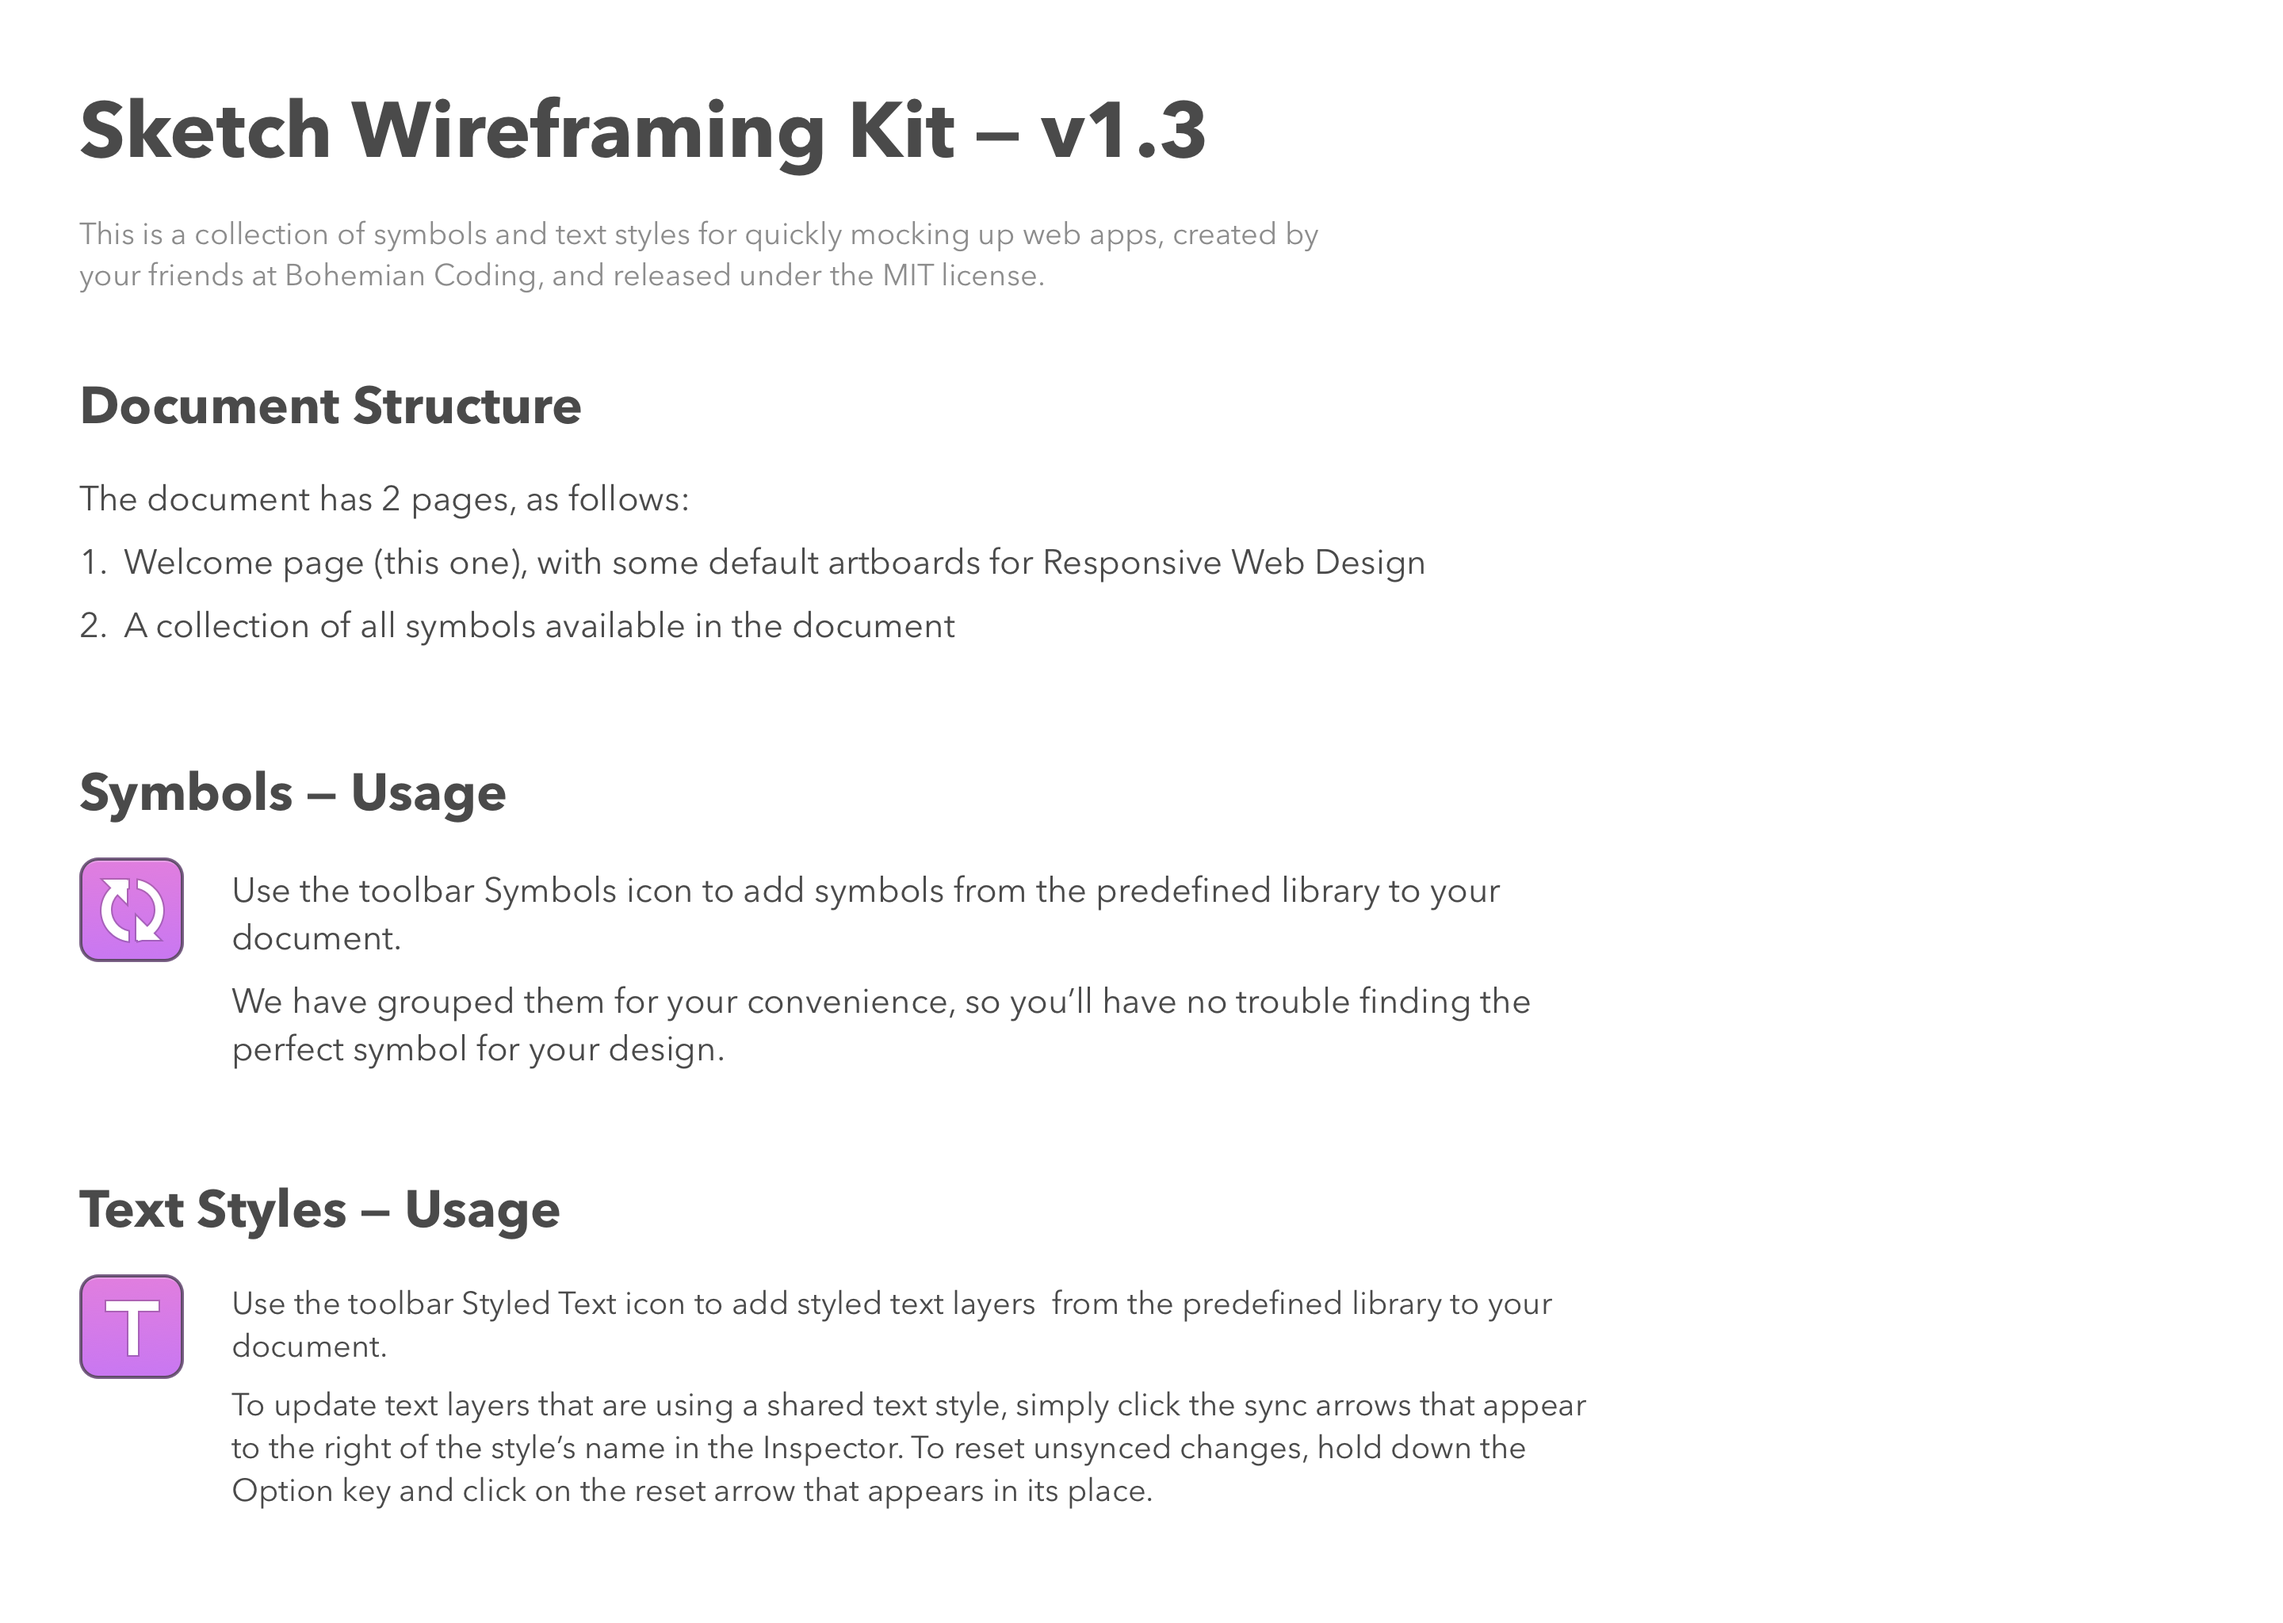
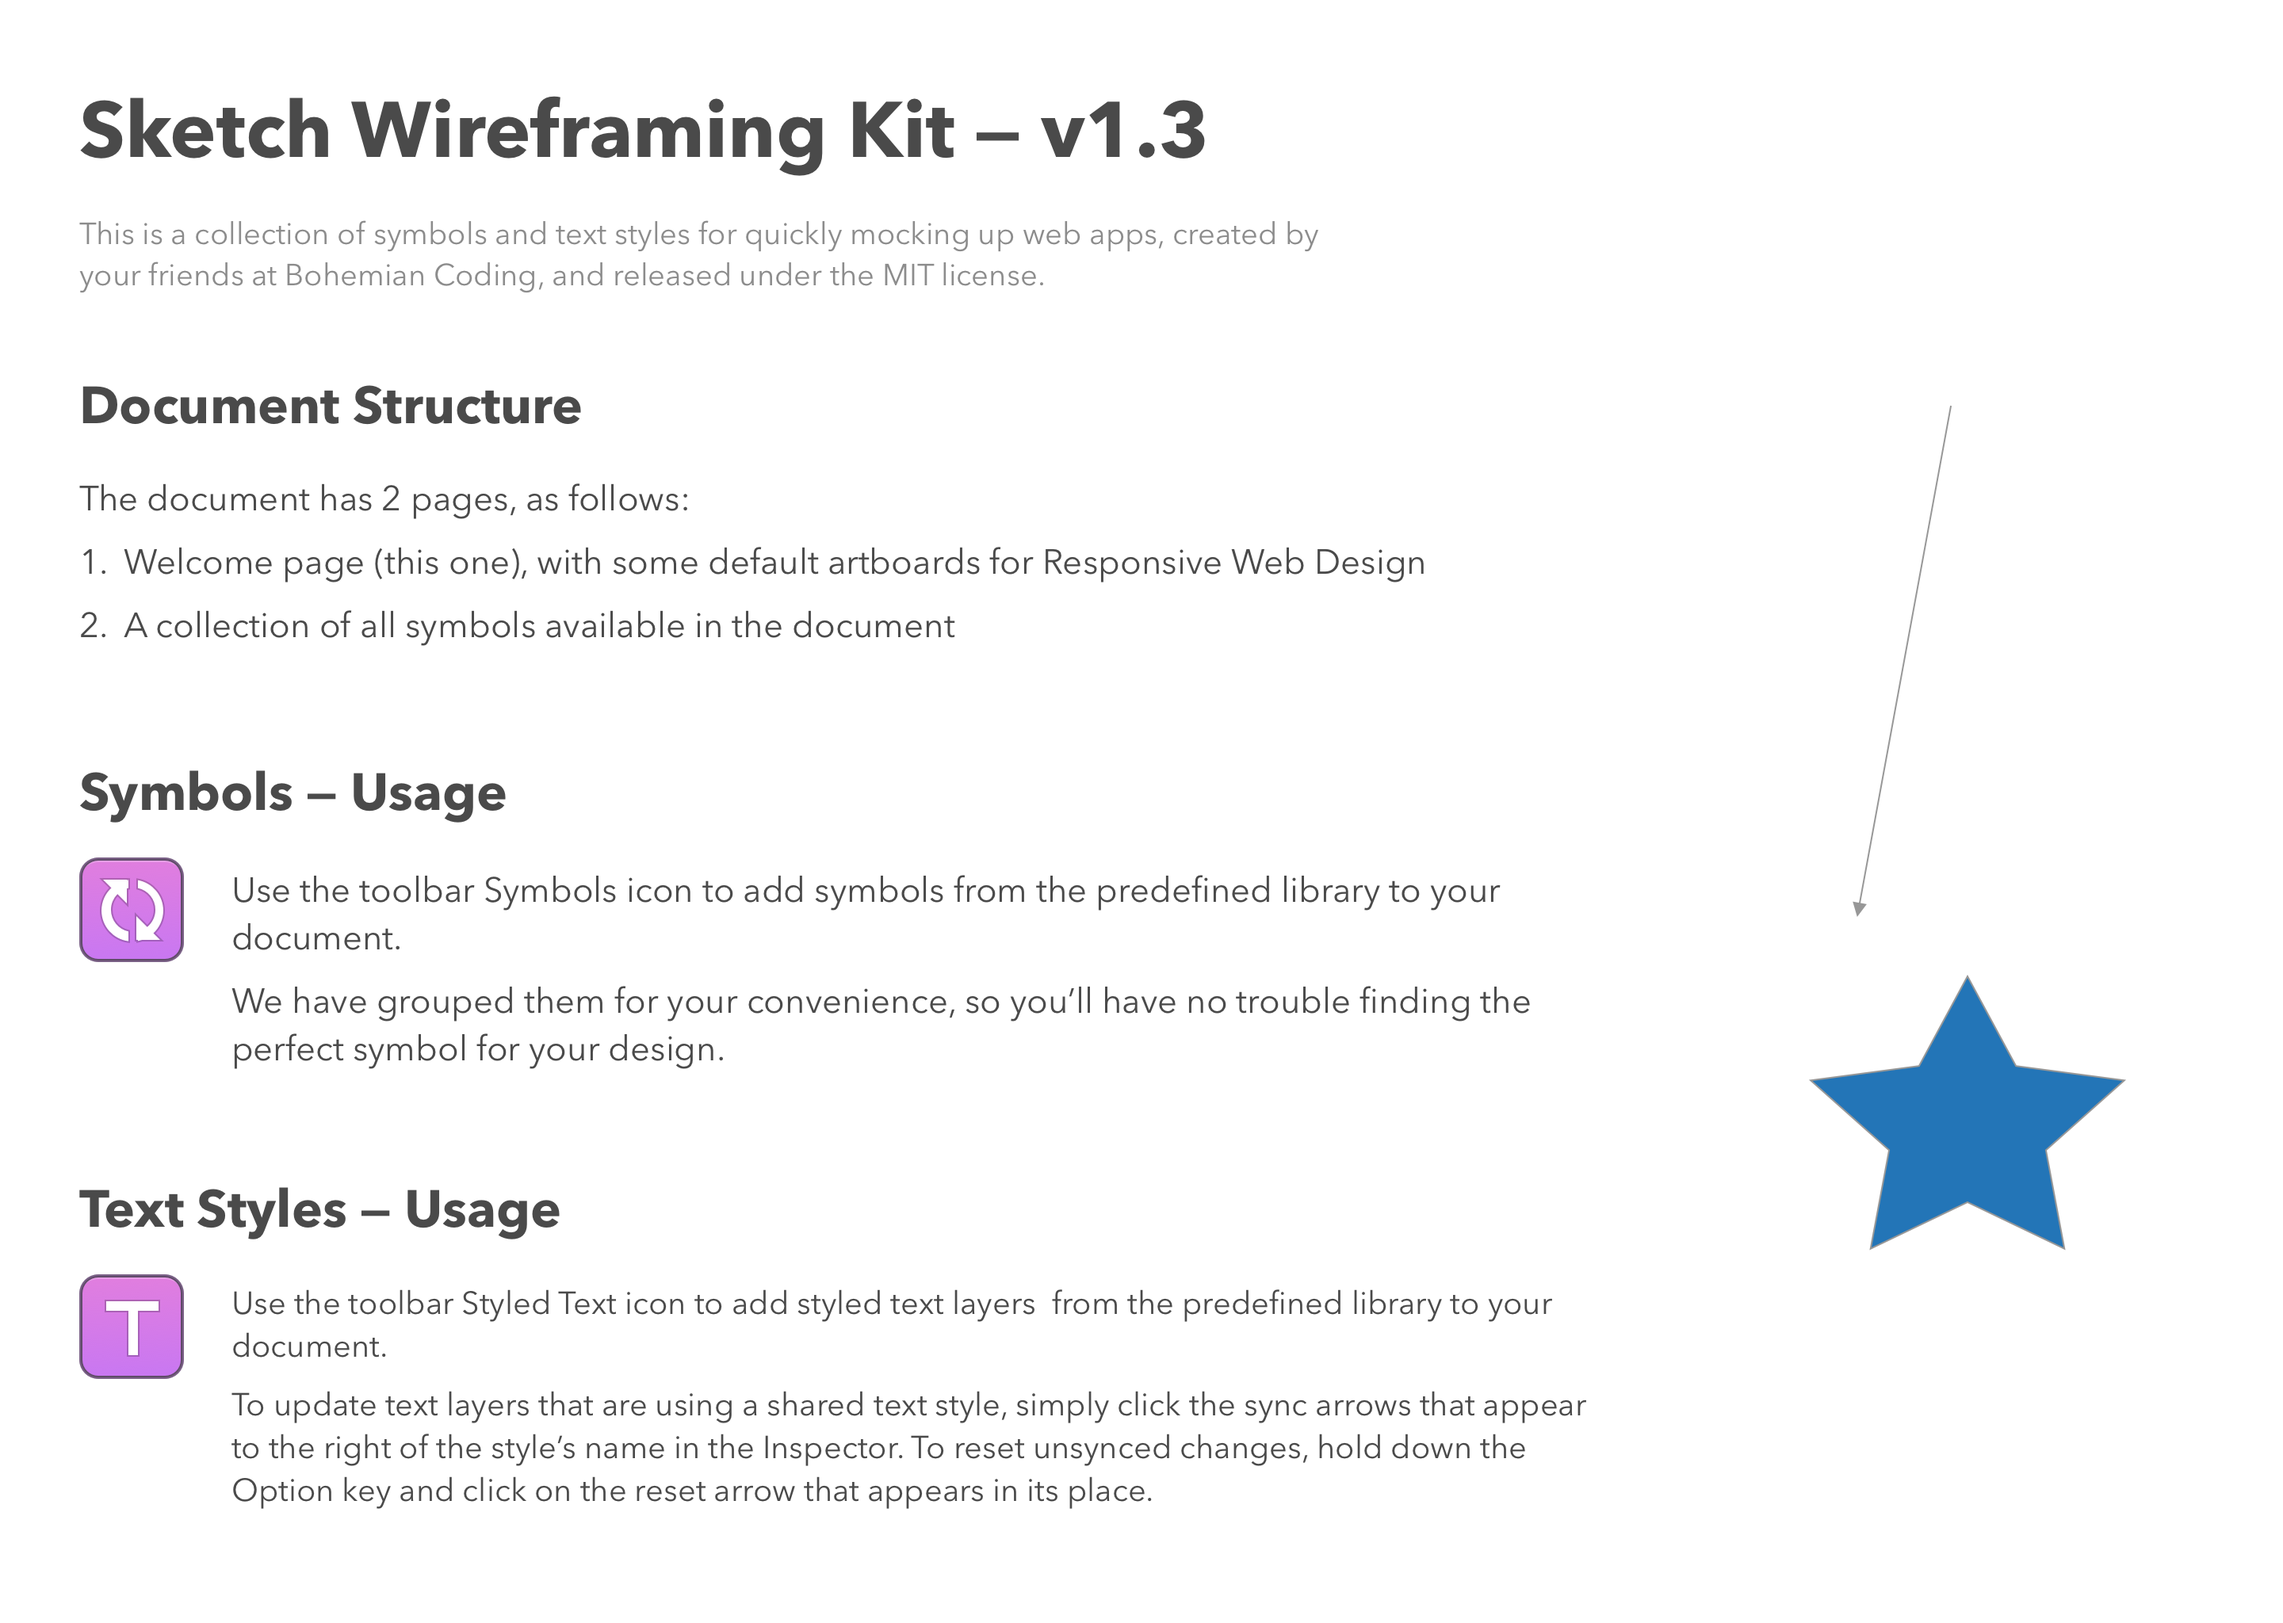
Added shapes

Changed region(s): [[0.7812, 0.5938, 0.9375, 0.7812]]

diff --git a/index.html b/index.html
@@ -1559,7 +1559,7 @@ var I18N = {},
     init.prototype = SMApp.fn;
     window.SMApp = SMApp;
 })(window);
-$(function(){ SMApp({"scale":"1","unit":"px","colorFormat":"color-hex","artboards":[{"layers":[{"objectID":"FC611829-9C70-4EB2-9DC3-97AA8566C644","type":"slice","name":"Instructions — You can remove this","rect":{"x":50,"y":50,"width":960,"height":904},"exportable":[{"name":"Instructions — You can remove this","format":"png","path":"Instructions — You can remove this.png"},{"name":"Instructions — You can remove this","format":"png","path":"Instructions — You can remove this@2x.png"}]}],"notes":[],"pageName":"Welcome","pageObjectID":"68CDDB49-B3DF-45AD-BC24-925DD374EFBF","name":"Desktop HD","slug":"welcome-desktop-hd","objectID":"AC13CA81-ABEE-4545-B5D1-9AE375C39D72","width":1440,"height":1024,"imagePath":"preview/welcome-desktop-hd.png"}],"slices":[{"name":"Instructions — You can remove this","objectID":"FC611829-9C70-4EB2-9DC3-97AA8566C644","rect":{"x":50,"y":50,"width":960,"height":904},"exportable":[{"name":"Instructions — You can remove this","format":"png","path":"Instructions — You can remove this.png"},{"name":"Instructions — You can remove this","format":"png","path":"Instructions — You can remove this@2x.png"}]}],"colors":[]}) });
+$(function(){ SMApp({"scale":"1","unit":"px","colorFormat":"color-hex","artboards":[{"layers":[{"objectID":"FC611829-9C70-4EB2-9DC3-97AA8566C644","type":"slice","name":"Instructions — You can remove this","rect":{"x":50,"y":50,"width":960,"height":904},"exportable":[{"name":"Instructions — You can remove this","format":"png","path":"Instructions — You can remove this.png"},{"name":"Instructions — You can remove this","format":"png","path":"Instructions — You can remove this@2x.png"}]},{"objectID":"EA017C00-D987-4857-8797-89B8428F6278","type":"shape","name":"Line","rect":{"x":1171,"y":256,"width":60,"height":322},"rotation":0,"radius":0,"borders":[{"fillType":"color","position":"center","thickness":1,"color":{"r":151,"g":151,"b":151,"a":1,"color-hex":"#979797 100%","argb-hex":"#FF979797","css-rgba":"rgba(151,151,151,1)","ui-color":"(r:0.59 g:0.59 b:0.59 a:1.00)"}}],"fills":[],"shadows":[],"opacity":1,"styleName":"","css":["border: 1px solid #979797;"]},{"objectID":"4113EDB5-7DBD-43DD-8AA9-E40AFDC113BB","type":"shape","name":"Star","rect":{"x":1137,"y":616,"width":208,"height":190},"rotation":0,"radius":0,"borders":[{"fillType":"color","position":"center","thickness":1,"color":{"r":151,"g":151,"b":151,"a":1,"color-hex":"#979797 100%","argb-hex":"#FF979797","css-rgba":"rgba(151,151,151,1)","ui-color":"(r:0.59 g:0.59 b:0.59 a:1.00)"}}],"fills":[{"fillType":"color","color":{"r":35,"g":117,"b":183,"a":1,"color-hex":"#2375B7 100%","argb-hex":"#FF2375B7","css-rgba":"rgba(35,117,183,1)","ui-color":"(r:0.14 g:0.46 b:0.72 a:1.00)"}}],"shadows":[],"opacity":1,"styleName":"","css":["background: #2375B7;","border: 1px solid #979797;"]}],"notes":[],"pageName":"Welcome","pageObjectID":"68CDDB49-B3DF-45AD-BC24-925DD374EFBF","name":"Desktop HD","slug":"welcome-desktop-hd","objectID":"AC13CA81-ABEE-4545-B5D1-9AE375C39D72","width":1440,"height":1024,"imagePath":"preview/welcome-desktop-hd.png"}],"slices":[{"name":"Instructions — You can remove this","objectID":"FC611829-9C70-4EB2-9DC3-97AA8566C644","rect":{"x":50,"y":50,"width":960,"height":904},"exportable":[{"name":"Instructions — You can remove this","format":"png","path":"Instructions — You can remove this.png"},{"name":"Instructions — You can remove this","format":"png","path":"Instructions — You can remove this@2x.png"}]}],"colors":[]}) });
     -->
     </script>
   </head>
